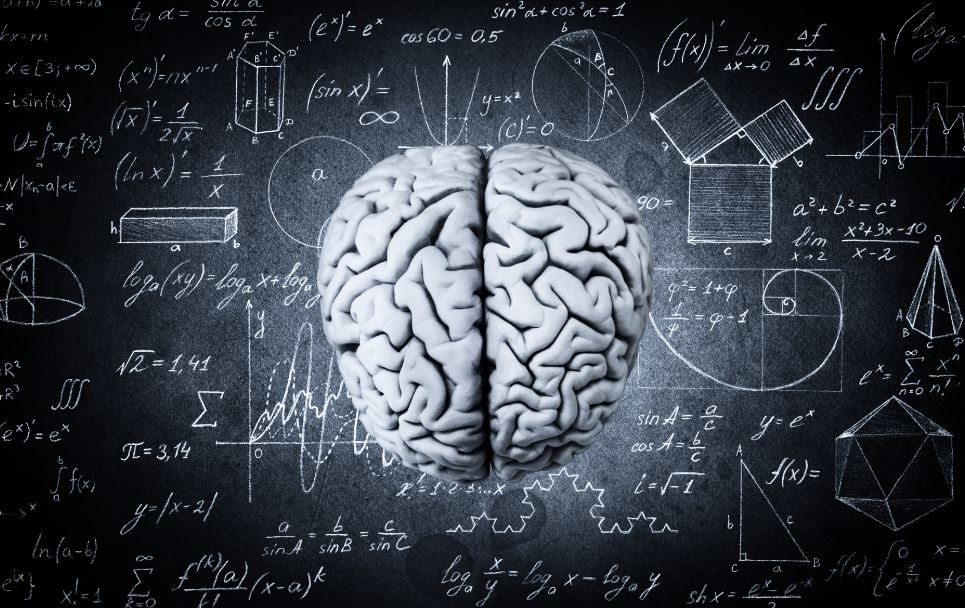
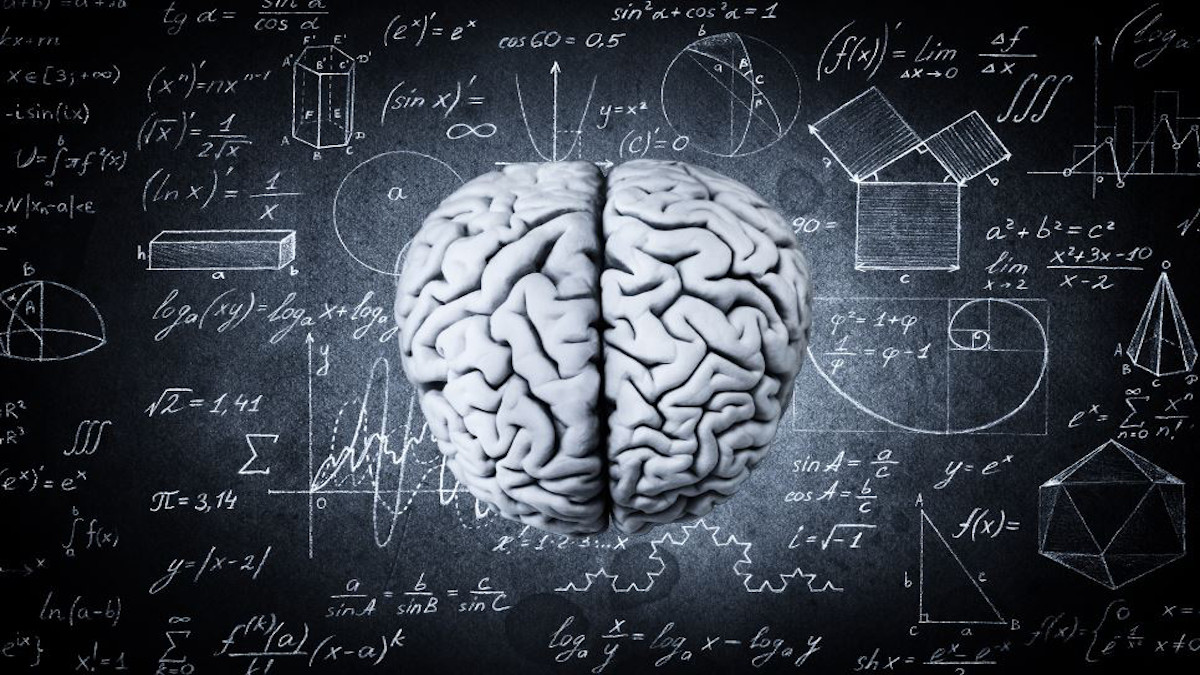
Bilder angepasst

diff --git a/Startseite/Startseite.html b/Startseite/Startseite.html
@@ -39,7 +39,7 @@
                 </div>
                 <div class="mySlides fade">
                     <a href="../Mathematik/Zahlenreihen.html">
-                        <img src="../Mathematik/Mathe.jpg" class="responsiveImg">
+                        <img src="../Mathematik/matrix.jpg" class="responsiveImg">
                         <div class="imgText">
                             Zahlenreihen
                         </div>
@@ -56,7 +56,7 @@
                 </div>
                 <div class="mySlides fade">
                     <a href="../Sketching/Sketching.html">
-                        <img src="../Sketching/Sketching.jpeg" class="responsiveImg">
+                        <img src="../Sketching/sketching2.webp" class="responsiveImg">
 
                         <div class="imgText">Sketching:
                             Hier kannst du deinen Gedanken freien lauf lassen. Entweder du skizzierst etwas, das dir selbst gefällt oder wenn du keine eigenen Ideen hast, haben wir Themenfelder für dich vorbereitet. Erstelle eine Mindmap, gerne auch im Team!

diff --git a/Startseite/Startseite.css b/Startseite/Startseite.css
@@ -22,7 +22,6 @@ img {
 .responsiveImg {
     width: 70%;
     height: auto;
-    max-width: 800;
 
 }
 
